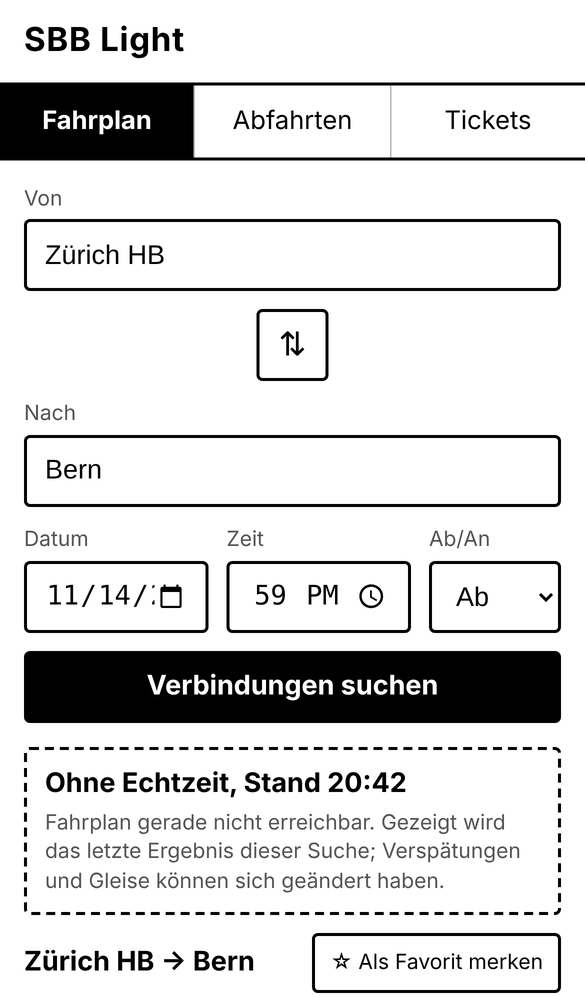
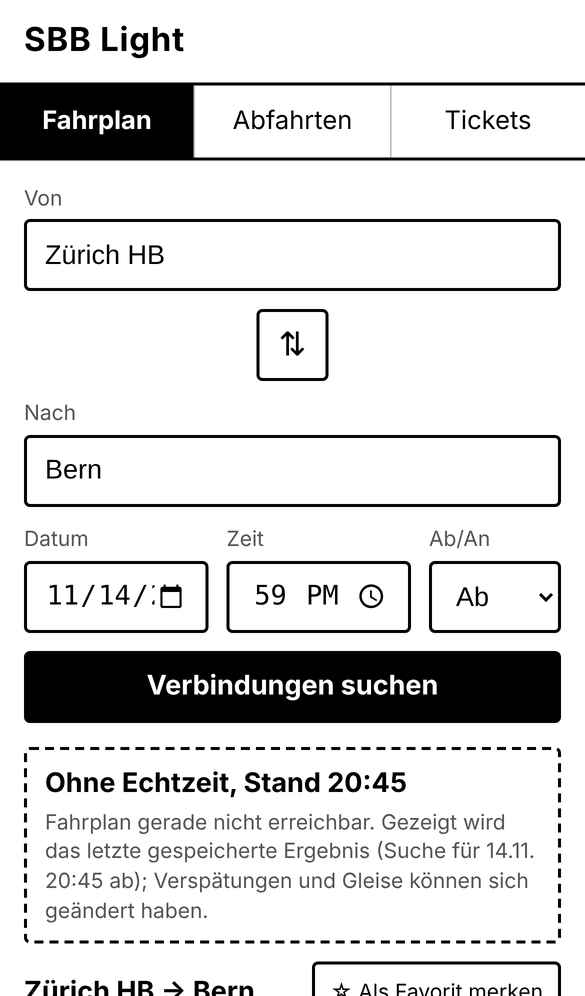
Gegenlesung umgesetzt: Ersatzergebnis kennzeichnen, Rennbedingung, Robustheit
- Hinweis ohne Netz nennt, für welche Suche das gespeicherte Ergebnis gilt.
- Langsame ältere Suche überschreibt die neuere nicht mehr (Zähler).
- Abfahrten ohne Netz: abgefahrene Züge ausgeblendet.
- Favoriten: Start bricht bei altem index.html nicht ab; Speicherfehler
  wird gemeldet.
- Tests: Favorit-Tipp muss wirklich die API fragen; Service Worker im
  Favoriten-Test blockiert, damit jede Anfrage abgefangen wird; neuer
  Test für die Rennbedingung.

Claude-Session: https://claude.ai/code/session_01VAtGiQZ91sf7wExvGFzTgz

Changed region(s): [[0.0308, 0.8404, 0.8923, 1.0], [0.5231, 0.747, 0.9846, 1.0], [0.6769, 0.7781, 0.7077, 0.8092]]

diff --git a/app.js b/app.js
@@ -85,6 +85,11 @@ function lastPut(kind, key, params, data) {
     if (store.set('sbb.last.' + kind, list.slice(0, n))) return;
   }
 }
+function fmtSearch(p) {
+  if (!p || !p.date) return '';
+  const [, m, d] = p.date.split('-');
+  return `Suche für ${d}.${m}. ${p.time || ''} ${p.isArrivalTime === '1' ? 'an' : 'ab'}`.replace(/\s+/g, ' ').trim();
+}
 function staleNote(entry) {
   const d = new Date(entry.at);
   const today = new Date().toDateString() === d.toDateString();
@@ -92,12 +97,14 @@ function staleNote(entry) {
   const why = !navigator.onLine ? 'Keine Internetverbindung' : 'Fahrplan gerade nicht erreichbar';
   return el('div', { className: 'stale' }, [
     el('strong', { textContent: `Ohne Echtzeit, Stand ${when}` }),
-    el('p', { textContent: `${why}. Gezeigt wird das letzte Ergebnis dieser Suche; Verspätungen und Gleise können sich geändert haben.` }),
+    el('p', { textContent: `${why}. Gezeigt wird das letzte gespeicherte Ergebnis` +
+      (fmtSearch(entry.params) ? ` (${fmtSearch(entry.params)})` : '') +
+      '; Verspätungen und Gleise können sich geändert haben.' }),
   ]);
 }
 
 function favList(kind) { return store.get('sbb.fav.' + kind, []); }
-function favSave(kind, list) { store.set('sbb.fav.' + kind, list.slice(0, FAV_MAX)); }
+function favSave(kind, list) { return store.set('sbb.fav.' + kind, list.slice(0, FAV_MAX)); }
 function favHas(kind, key) { return favList(kind).some((f) => f.key === key); }
 function favToggle(kind, fav) {
   const list = favList(kind);
@@ -107,7 +114,7 @@ function favToggle(kind, fav) {
     if (list.length >= FAV_MAX) { alert(`Höchstens ${FAV_MAX} Favoriten. Bitte zuerst einen entfernen.`); return false; }
     list.push(fav);
   }
-  favSave(kind, list);
+  if (!favSave(kind, list)) { alert('Favorit konnte nicht gespeichert werden (Speicher voll?).'); return false; }
   return true;
 }
 
@@ -150,6 +157,7 @@ $('#swap').addEventListener('click', () => {
   [a.value, b.value] = [b.value, a.value];
 });
 
+let connJob = 0;
 connForm.addEventListener('submit', async (e) => {
   e.preventDefault();
   const from = $('#conn-from').value.trim();
@@ -164,6 +172,7 @@ connForm.addEventListener('submit', async (e) => {
   };
   const key = `${norm(from)}|${norm(to)}`;
   const last = lastGet('conn', key);
+  const job = ++connJob; // a slow older request must not overwrite a newer one
   connResults.innerHTML = '';
   connResults.append(el('p', { className: 'msg loading', textContent: 'Suche' }));
   try {
@@ -174,8 +183,10 @@ connForm.addEventListener('submit', async (e) => {
       data = await api('/connections', params);
       lastPut('conn', key, params, { connections: data.connections || [] });
     }
+    if (job !== connJob) return;
     renderConnections(data.connections || [], { from, to, key });
   } catch (err) {
+    if (job !== connJob) return;
     connResults.innerHTML = '';
     if (last) {
       renderConnections(last.data.connections || [], { from, to, key });
@@ -201,6 +212,7 @@ function favButton(kind, fav, onChange) {
 }
 
 function renderFavs(kind, box, onPick) {
+  if (!box) return; // index.html from an older version (mixed cache on a weak network)
   const list = favList(kind);
   box.replaceChildren(...list.map((f) => el('span', { className: 'fav' }, [
     el('button', { type: 'button', className: 'fav-go', textContent: f.label, onclick: () => onPick(f) }),
@@ -277,6 +289,7 @@ function renderConnections(conns, route) {
 const boardForm = $('#board-form');
 const boardResults = $('#board-results');
 
+let boardJob = 0;
 boardForm.addEventListener('submit', async (e) => {
   e.preventDefault();
   const station = $('#board-station').value.trim();
@@ -284,6 +297,7 @@ boardForm.addEventListener('submit', async (e) => {
   const params = { station, limit: 14 };
   const key = norm(station);
   const last = lastGet('board', key);
+  const job = ++boardJob;
   boardResults.innerHTML = '';
   boardResults.append(el('p', { className: 'msg loading', textContent: 'Laden' }));
   try {
@@ -294,11 +308,20 @@ boardForm.addEventListener('submit', async (e) => {
       data = await api('/stationboard', params);
       lastPut('board', key, params, { station: data.station, stationboard: data.stationboard || [] });
     }
+    if (job !== boardJob) return;
     renderBoard(data, station);
   } catch (err) {
+    if (job !== boardJob) return;
     boardResults.innerHTML = '';
     if (last) {
-      renderBoard(last.data, station);
+      // without real time: leave out trains that have left already
+      const now = Date.now();
+      const left = (s) => {
+        const st = s.stop || {};
+        const t = new Date(st.departure).getTime() + (st.delay || 0) * 60000;
+        return !isNaN(t) && t < now - 60000;
+      };
+      renderBoard({ ...last.data, stationboard: (last.data.stationboard || []).filter((s) => !left(s)) }, station);
       boardResults.prepend(staleNote(last));
     } else {
       boardResults.append(errorBox(err));

diff --git a/tests/favs.spec.js b/tests/favs.spec.js
@@ -19,6 +19,10 @@ async function searchZurichBern(page) {
   await expect(page.locator('#conn-results .conn').first()).toBeVisible({ timeout: 30_000 });
 }
 
+// The service worker only serves the app's own files; block it here so page.route
+// is guaranteed to see every timetable request.
+test.use({ serviceWorkers: 'block' });
+
 test.beforeEach(async ({ page }) => {
   await page.goto('./');
 });
@@ -33,8 +37,13 @@ test('Favorit: Strecke merken, nach Neustart mit einem Tipp suchen, entfernen', 
   const chip = page.locator('#conn-favs').getByRole('button', { name: 'Zürich HB → Bern', exact: true });
   await expect(chip).toBeVisible();
   await expect(page.locator('#conn-results .conn')).toHaveCount(0);
+  // the tap must really ask the timetable (no stored result to fall back on)
+  await page.evaluate(() => localStorage.removeItem('sbb.last.conn'));
+  const req = page.waitForRequest(/\/v1\/connections/);
   await chip.click(); // one tap: fills the form with "now" and searches
+  await req;
   await expect(page.locator('#conn-results .conn').first()).toBeVisible({ timeout: 30_000 });
+  await expect(page.locator('#conn-results .stale')).toHaveCount(0);
   await expect(page.locator('#conn-from')).toHaveValue('Zürich HB');
   await shot(page, testInfo, '08-favorit-strecke');
 
@@ -54,6 +63,9 @@ test('Ohne Netz: letztes Ergebnis mit «Ohne Echtzeit, Stand hh:mm»', async ({ 
   await page.getByRole('button', { name: 'Verbindungen suchen' }).click();
   const note = page.locator('#conn-results .stale');
   await expect(note).toContainText(/Ohne Echtzeit, Stand \d\d:\d\d/);
+  // the note says which search the stored result belongs to (not the 23:59 one)
+  await expect(note).toContainText(/Suche für \d\d\.\d\d\. \d\d:\d\d ab/);
+  await expect(note).not.toContainText('23:59');
   await expect(page.locator('#conn-results .conn-times').first()).toHaveText(first);
   await shot(page, testInfo, '09-ohne-netz-letztes-ergebnis');
 
@@ -83,6 +95,20 @@ test('Abfahrten: Haltestelle als Favorit, ohne Netz letztes Ergebnis', async ({ 
   await page.locator('#board-favs').getByRole('button', { name: 'Bern', exact: true }).click();
   await expect(page.locator('#board-results .stale')).toContainText('Ohne Echtzeit');
   await expect(page.locator('#board-results .board-row').first()).toBeVisible();
+});
+
+test('Langsame ältere Suche überschreibt die neuere nicht', async ({ page }) => {
+  await page.getByRole('tab', { name: 'Fahrplan' }).click();
+  // first request (to Chur) hangs for 4 s, the second (to Bern) answers normally
+  await page.route(/\/v1\/connections.*to=Chur/, async (r) => { await new Promise((x) => setTimeout(x, 4000)); await r.continue(); });
+  await page.locator('#conn-from').fill('Zürich HB');
+  await page.locator('#conn-to').fill('Chur');
+  await page.getByRole('button', { name: 'Verbindungen suchen' }).click();
+  await page.locator('#conn-to').fill('Bern');
+  await page.getByRole('button', { name: 'Verbindungen suchen' }).click();
+  await expect(page.locator('#conn-results .result-head')).toContainText('Zürich HB → Bern', { timeout: 30_000 });
+  await page.waitForTimeout(5000); // the Chur answer arrives meanwhile
+  await expect(page.locator('#conn-results .result-head')).toContainText('Zürich HB → Bern');
 });
 
 test('Gleiche Suche innerhalb 30 s fragt die API nicht erneut', async ({ page }) => {
